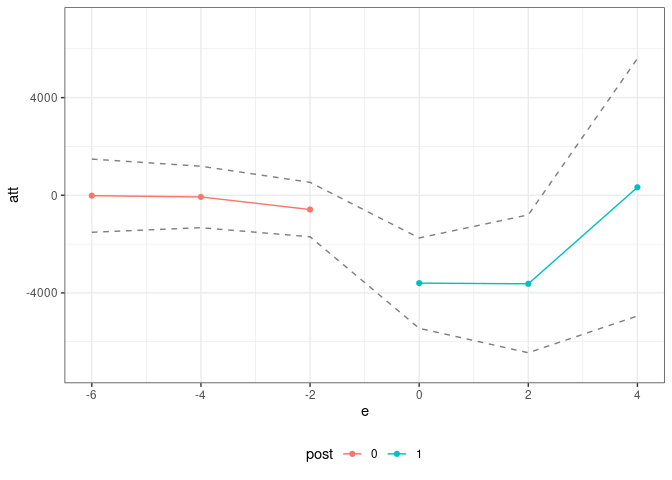
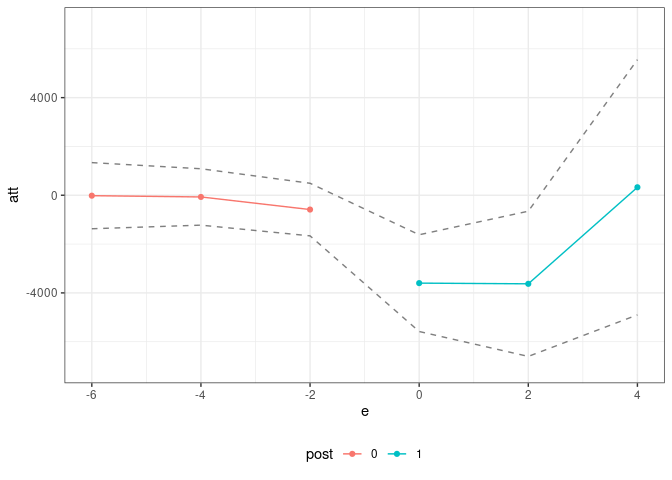
fixed issues related to orig2t

diff --git a/docs/index.html b/docs/index.html
@@ -29,7 +29,7 @@
 
     <a class="navbar-brand me-2" href="index.html">ife</a>
 
-    <small class="nav-text text-muted me-auto" data-bs-toggle="tooltip" data-bs-placement="bottom" title="">0.0.901</small>
+    <small class="nav-text text-muted me-auto" data-bs-toggle="tooltip" data-bs-placement="bottom" title="">0.0.902</small>
 
 
     <button class="navbar-toggler" type="button" data-bs-toggle="collapse" data-bs-target="#navbar" aria-controls="navbar" aria-expanded="false" aria-label="Toggle navigation">
@@ -87,17 +87,17 @@
 <span><span class="co">#&gt; </span></span>
 <span><span class="co">#&gt; Overall ATT:  </span></span>
 <span><span class="co">#&gt;        ATT    Std. Error     [ 90%  Conf. Int.]  </span></span>
-<span><span class="co">#&gt;  -3976.881      1153.884  -5874.852    -2078.91 *</span></span>
+<span><span class="co">#&gt;  -3976.881      1141.811  -5854.993   -2098.769 *</span></span>
 <span><span class="co">#&gt; </span></span>
 <span><span class="co">#&gt; </span></span>
 <span><span class="co">#&gt; Dynamic Effects:</span></span>
 <span><span class="co">#&gt;  Event Time   Estimate Std. Error     [90%  Conf. Band]  </span></span>
-<span><span class="co">#&gt;          -6   -15.0413   872.9375 -1450.896   1420.8132  </span></span>
-<span><span class="co">#&gt;          -4  -131.3128   705.3069 -1291.439   1028.8138  </span></span>
-<span><span class="co">#&gt;          -2  -664.5203   613.7640 -1674.072    345.0317  </span></span>
-<span><span class="co">#&gt;           0 -3946.5861  1022.5415 -5628.517  -2264.6550 *</span></span>
-<span><span class="co">#&gt;           2 -4281.1615  1497.2506 -6743.919  -1818.4034 *</span></span>
-<span><span class="co">#&gt;           4 -1454.0791  2850.4012 -6142.572   3234.4136  </span></span>
+<span><span class="co">#&gt;          -6   -15.0413   791.5992 -1317.106   1287.0234  </span></span>
+<span><span class="co">#&gt;          -4  -131.3128   701.6462 -1285.418   1022.7925  </span></span>
+<span><span class="co">#&gt;          -2  -664.5203   580.2852 -1619.005    289.9638  </span></span>
+<span><span class="co">#&gt;           0 -3946.5861   986.6150 -5569.423  -2323.7488 *</span></span>
+<span><span class="co">#&gt;           2 -4281.1615  1537.6912 -6810.438  -1751.8846 *</span></span>
+<span><span class="co">#&gt;           4 -1454.0791  2591.7845 -5717.185   2809.0271  </span></span>
 <span><span class="co">#&gt; ---</span></span>
 <span><span class="co">#&gt; Signif. codes: `*' confidence band does not cover 0</span></span>
 <span><span class="fu">ggpte</span><span class="op">(</span><span class="va">res</span><span class="op">)</span> <span class="op">+</span> <span class="fu">ylim</span><span class="op">(</span><span class="fu"><a href="https://rdrr.io/r/base/c.html" class="external-link">c</a></span><span class="op">(</span><span class="op">-</span><span class="fl">7000</span>,<span class="fl">7000</span><span class="op">)</span><span class="op">)</span></span></code></pre></div>
@@ -122,17 +122,17 @@
 <span><span class="co">#&gt; </span></span>
 <span><span class="co">#&gt; Overall ATT:  </span></span>
 <span><span class="co">#&gt;        ATT    Std. Error     [ 90%  Conf. Int.]  </span></span>
-<span><span class="co">#&gt;  -3463.467      1267.014  -5547.519   -1379.415 *</span></span>
+<span><span class="co">#&gt;  -3463.467      1350.412  -5684.697   -1242.236 *</span></span>
 <span><span class="co">#&gt; </span></span>
 <span><span class="co">#&gt; </span></span>
 <span><span class="co">#&gt; Dynamic Effects:</span></span>
 <span><span class="co">#&gt;  Event Time   Estimate Std. Error     [90%  Conf. Band]  </span></span>
-<span><span class="co">#&gt;          -6   -17.6954   902.5969 -1502.335   1466.9445  </span></span>
-<span><span class="co">#&gt;          -4   -69.4965   692.7880 -1209.031   1070.0383  </span></span>
-<span><span class="co">#&gt;          -2  -586.0360   656.1343 -1665.281    493.2088  </span></span>
-<span><span class="co">#&gt;           0 -3599.9237  1256.0766 -5665.986  -1533.8615 *</span></span>
-<span><span class="co">#&gt;           2 -3628.0465  1763.8454 -6529.314   -726.7790 *</span></span>
-<span><span class="co">#&gt;           4   326.6318  3311.4905 -5120.285   5773.5490  </span></span>
+<span><span class="co">#&gt;          -6   -17.6954   823.6747 -1372.520   1337.1290  </span></span>
+<span><span class="co">#&gt;          -4   -69.4965   702.3175 -1224.706   1085.7130  </span></span>
+<span><span class="co">#&gt;          -2  -586.0360   654.9993 -1663.414    491.3420  </span></span>
+<span><span class="co">#&gt;           0 -3599.9237  1205.0032 -5581.978  -1617.8697 *</span></span>
+<span><span class="co">#&gt;           2 -3628.0465  1808.2979 -6602.432   -653.6612 *</span></span>
+<span><span class="co">#&gt;           4   326.6318  3178.3581 -4901.302   5554.5656  </span></span>
 <span><span class="co">#&gt; ---</span></span>
 <span><span class="co">#&gt; Signif. codes: `*' confidence band does not cover 0</span></span>
 <span><span class="fu">ggpte</span><span class="op">(</span><span class="va">lt_res</span><span class="op">)</span> <span class="op">+</span> <span class="fu">ylim</span><span class="op">(</span><span class="fu"><a href="https://rdrr.io/r/base/c.html" class="external-link">c</a></span><span class="op">(</span><span class="op">-</span><span class="fl">7000</span>,<span class="fl">7000</span><span class="op">)</span><span class="op">)</span></span></code></pre></div>

diff --git a/docs/authors.html b/docs/authors.html
@@ -7,7 +7,7 @@
 
     <a class="navbar-brand me-2" href="index.html">ife</a>
 
-    <small class="nav-text text-muted me-auto" data-bs-toggle="tooltip" data-bs-placement="bottom" title="">0.0.901</small>
+    <small class="nav-text text-muted me-auto" data-bs-toggle="tooltip" data-bs-placement="bottom" title="">0.0.902</small>
 
 
     <button class="navbar-toggler" type="button" data-bs-toggle="collapse" data-bs-target="#navbar" aria-controls="navbar" aria-expanded="false" aria-label="Toggle navigation">
@@ -52,13 +52,13 @@
 
       <p>Callaway B, Karami S, Tsyawo E (2024).
 <em>ife: Treatment Effects in Interactive Fixed Effects Models</em>.
-R package version 0.0.901.
+R package version 0.0.902.
 </p>
       <pre>@Manual{,
   title = {ife: Treatment Effects in Interactive Fixed Effects Models},
   author = {Brantly Callaway and Sonia Karami and Emmanuel Tsyawo},
   year = {2024},
-  note = {R package version 0.0.901},
+  note = {R package version 0.0.902},
 }</pre>
     </div>
 

diff --git a/docs/reference/ife_attgt.html b/docs/reference/ife_attgt.html
@@ -11,7 +11,7 @@ using the approach in Callaway and Karami (2021)"><meta property="og:image" cont
 
     <a class="navbar-brand me-2" href="../index.html">ife</a>
 
-    <small class="nav-text text-muted me-auto" data-bs-toggle="tooltip" data-bs-placement="bottom" title="">0.0.901</small>
+    <small class="nav-text text-muted me-auto" data-bs-toggle="tooltip" data-bs-placement="bottom" title="">0.0.902</small>
 
 
     <button class="navbar-toggler" type="button" data-bs-toggle="collapse" data-bs-target="#navbar" aria-controls="navbar" aria-expanded="false" aria-label="Toggle navigation">

diff --git a/docs/reference/ife_subset.html b/docs/reference/ife_subset.html
@@ -21,7 +21,7 @@ nife+1 periods where nife is the number of interactive fixed effects."><meta pro
 
     <a class="navbar-brand me-2" href="../index.html">ife</a>
 
-    <small class="nav-text text-muted me-auto" data-bs-toggle="tooltip" data-bs-placement="bottom" title="">0.0.901</small>
+    <small class="nav-text text-muted me-auto" data-bs-toggle="tooltip" data-bs-placement="bottom" title="">0.0.902</small>
 
 
     <button class="navbar-toggler" type="button" data-bs-toggle="collapse" data-bs-target="#navbar" aria-controls="navbar" aria-expanded="false" aria-label="Toggle navigation">

diff --git a/docs/reference/staggered_ife_attgt.html b/docs/reference/staggered_ife_attgt.html
@@ -21,7 +21,7 @@ to estimate the interactive fixed effects model."><meta property="og:image" cont
 
     <a class="navbar-brand me-2" href="../index.html">ife</a>
 
-    <small class="nav-text text-muted me-auto" data-bs-toggle="tooltip" data-bs-placement="bottom" title="">0.0.901</small>
+    <small class="nav-text text-muted me-auto" data-bs-toggle="tooltip" data-bs-placement="bottom" title="">0.0.902</small>
 
 
     <button class="navbar-toggler" type="button" data-bs-toggle="collapse" data-bs-target="#navbar" aria-controls="navbar" aria-expanded="false" aria-label="Toggle navigation">

diff --git a/docs/reference/ife.html b/docs/reference/ife.html
@@ -9,7 +9,7 @@ with a small number of time periods"><meta property="og:image" content="/logo.pn
 
     <a class="navbar-brand me-2" href="../index.html">ife</a>
 
-    <small class="nav-text text-muted me-auto" data-bs-toggle="tooltip" data-bs-placement="bottom" title="">0.0.901</small>
+    <small class="nav-text text-muted me-auto" data-bs-toggle="tooltip" data-bs-placement="bottom" title="">0.0.902</small>
 
 
     <button class="navbar-toggler" type="button" data-bs-toggle="collapse" data-bs-target="#navbar" aria-controls="navbar" aria-expanded="false" aria-label="Toggle navigation">

diff --git a/docs/reference/linear_trends.html b/docs/reference/linear_trends.html
@@ -9,7 +9,7 @@ untreated potential outcomes"><meta property="og:image" content="/logo.png"></he
 
     <a class="navbar-brand me-2" href="../index.html">ife</a>
 
-    <small class="nav-text text-muted me-auto" data-bs-toggle="tooltip" data-bs-placement="bottom" title="">0.0.901</small>
+    <small class="nav-text text-muted me-auto" data-bs-toggle="tooltip" data-bs-placement="bottom" title="">0.0.902</small>
 
 
     <button class="navbar-toggler" type="button" data-bs-toggle="collapse" data-bs-target="#navbar" aria-controls="navbar" aria-expanded="false" aria-label="Toggle navigation">

diff --git a/docs/reference/lt_attgt.html b/docs/reference/lt_attgt.html
@@ -9,7 +9,7 @@ for untreated potential outcomes"><meta property="og:image" content="/logo.png">
 
     <a class="navbar-brand me-2" href="../index.html">ife</a>
 
-    <small class="nav-text text-muted me-auto" data-bs-toggle="tooltip" data-bs-placement="bottom" title="">0.0.901</small>
+    <small class="nav-text text-muted me-auto" data-bs-toggle="tooltip" data-bs-placement="bottom" title="">0.0.902</small>
 
 
     <button class="navbar-toggler" type="button" data-bs-toggle="collapse" data-bs-target="#navbar" aria-controls="navbar" aria-expanded="false" aria-label="Toggle navigation">

diff --git a/docs/reference/lt_subset.html b/docs/reference/lt_subset.html
@@ -11,7 +11,7 @@ outcomes."><meta property="og:image" content="/logo.png"></head><body>
 
     <a class="navbar-brand me-2" href="../index.html">ife</a>
 
-    <small class="nav-text text-muted me-auto" data-bs-toggle="tooltip" data-bs-placement="bottom" title="">0.0.901</small>
+    <small class="nav-text text-muted me-auto" data-bs-toggle="tooltip" data-bs-placement="bottom" title="">0.0.902</small>
 
 
     <button class="navbar-toggler" type="button" data-bs-toggle="collapse" data-bs-target="#navbar" aria-controls="navbar" aria-expanded="false" aria-label="Toggle navigation">

diff --git a/docs/reference/staggered_ife_setup_pte.html b/docs/reference/staggered_ife_setup_pte.html
@@ -11,7 +11,7 @@ adoption."><meta property="og:image" content="/logo.png"></head><body>
 
     <a class="navbar-brand me-2" href="../index.html">ife</a>
 
-    <small class="nav-text text-muted me-auto" data-bs-toggle="tooltip" data-bs-placement="bottom" title="">0.0.901</small>
+    <small class="nav-text text-muted me-auto" data-bs-toggle="tooltip" data-bs-placement="bottom" title="">0.0.902</small>
 
 
     <button class="navbar-toggler" type="button" data-bs-toggle="collapse" data-bs-target="#navbar" aria-controls="navbar" aria-expanded="false" aria-label="Toggle navigation">

diff --git a/docs/reference/staggered_ife.html b/docs/reference/staggered_ife.html
@@ -11,7 +11,7 @@ adoption"><meta property="og:image" content="/logo.png"></head><body>
 
     <a class="navbar-brand me-2" href="../index.html">ife</a>
 
-    <small class="nav-text text-muted me-auto" data-bs-toggle="tooltip" data-bs-placement="bottom" title="">0.0.901</small>
+    <small class="nav-text text-muted me-auto" data-bs-toggle="tooltip" data-bs-placement="bottom" title="">0.0.902</small>
 
 
     <button class="navbar-toggler" type="button" data-bs-toggle="collapse" data-bs-target="#navbar" aria-controls="navbar" aria-expanded="false" aria-label="Toggle navigation">

diff --git a/docs/reference/ife_setup_pte.html b/docs/reference/ife_setup_pte.html
@@ -7,7 +7,7 @@
 
     <a class="navbar-brand me-2" href="../index.html">ife</a>
 
-    <small class="nav-text text-muted me-auto" data-bs-toggle="tooltip" data-bs-placement="bottom" title="">0.0.901</small>
+    <small class="nav-text text-muted me-auto" data-bs-toggle="tooltip" data-bs-placement="bottom" title="">0.0.902</small>
 
 
     <button class="navbar-toggler" type="button" data-bs-toggle="collapse" data-bs-target="#navbar" aria-controls="navbar" aria-expanded="false" aria-label="Toggle navigation">
